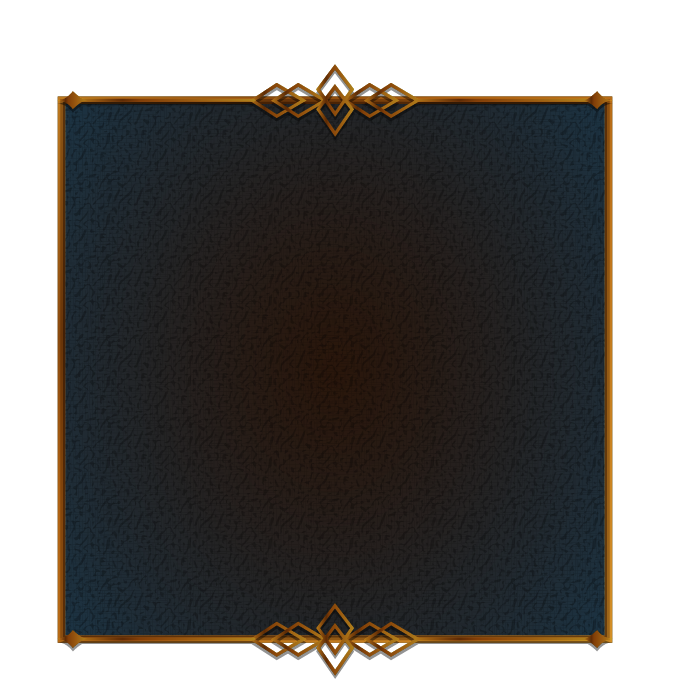
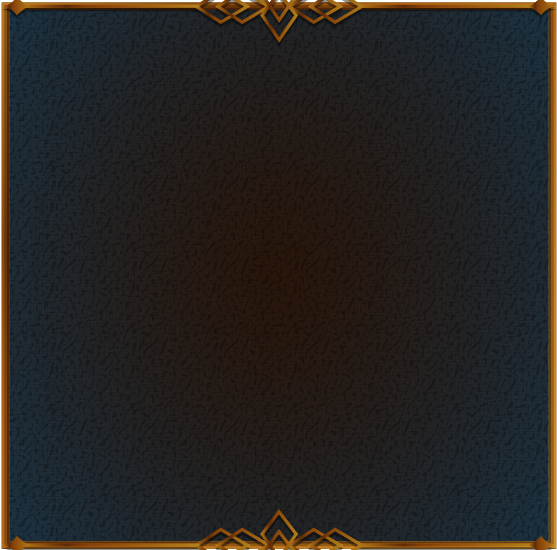
Add new 1080p assets and update shop panel image in GameScene

diff --git a/src/Shop.js b/src/Shop.js
@@ -5,8 +5,8 @@ export default class Shop {
     this.items = items;
 
 
-    const ShopWindowWidth = GAME_WINDOW_WIDTH;
-    const ShopWindowHeight = GAME_WINDOW_HEIGHT;
+    const ShopWindowWidth = GAME_WINDOW_WIDTH*.75;
+    const ShopWindowHeight = GAME_WINDOW_HEIGHT*.75;
 
     // ── Toggle button ──
     this.shopBtn = this.scene.add
@@ -22,21 +22,14 @@ export default class Shop {
 
     // ── Shop panel container ──
     this.shopPanel = this.scene.add.container(0, 0).setScrollFactor(0);
-    const shopWindowActual = this.scene.add.rectangle(
-      GAME_WINDOW_CENTER.X, 
-      GAME_WINDOW_CENTER.Y, 
-      ShopWindowWidth, 
-      ShopWindowHeight, 
-      0x222222, 
-      0.8
-    );
+    
 
     const shopWindow = this.scene.add.image(GAME_WINDOW_CENTER.X, GAME_WINDOW_CENTER.Y, 'shop_panel')
       .setDisplaySize(ShopWindowWidth, ShopWindowHeight)
       .setAlpha(0.8)
       .setInteractive();
 
-    this.shopPanel.add([shopWindow, shopWindowActual]);
+    this.shopPanel.add([shopWindow]);
 
     this._renderPage();
 

diff --git a/src/main.js b/src/main.js
@@ -25,7 +25,7 @@ class GameScene extends Phaser.Scene {
       this.load.image(item.id, item.paperdollPath);
       this.load.image(item.id + '_full', item.paperdollPathFull);
   });
-  this.load.image('shop_panel', 'assets/ui/Asset 1.2 - 1080p.png');
+  this.load.image('shop_panel', 'assets/ui/Asset 1.3 - 1080p.png');
   }
 
   create() {
